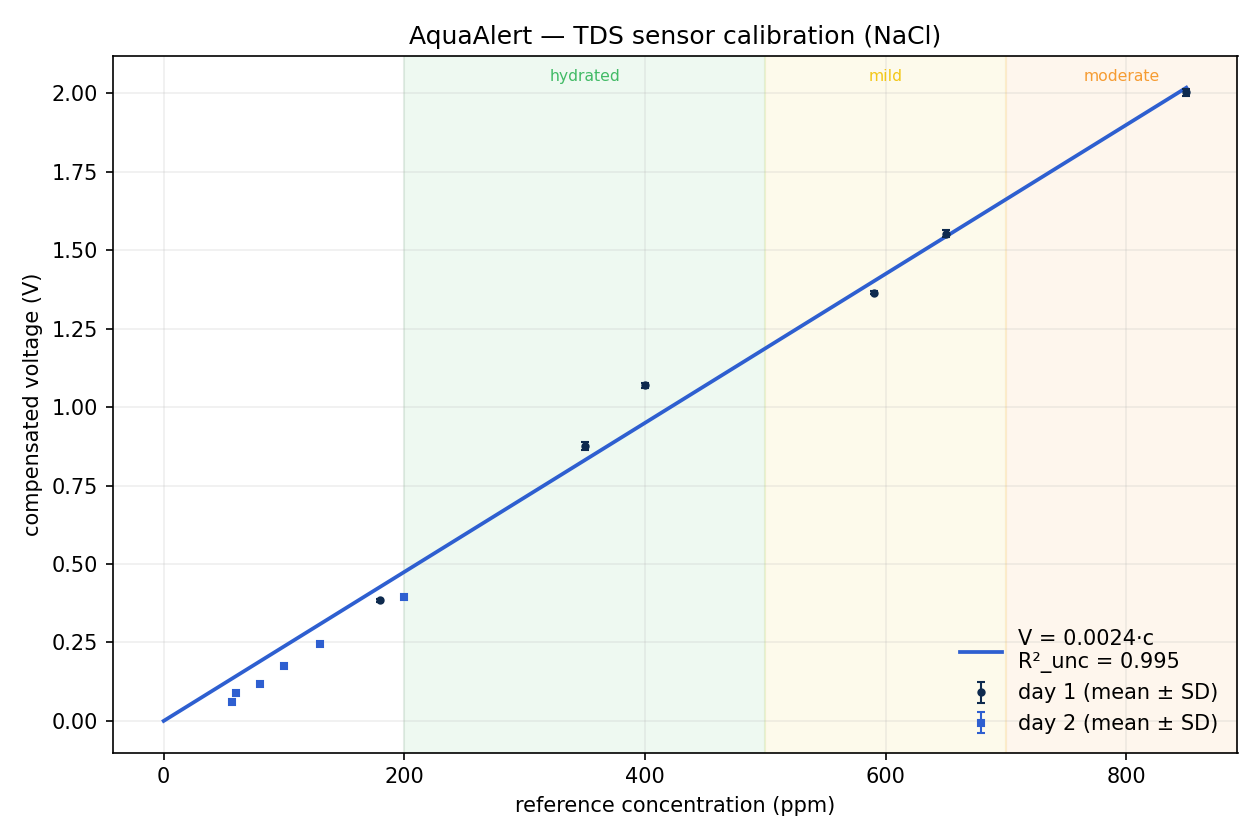
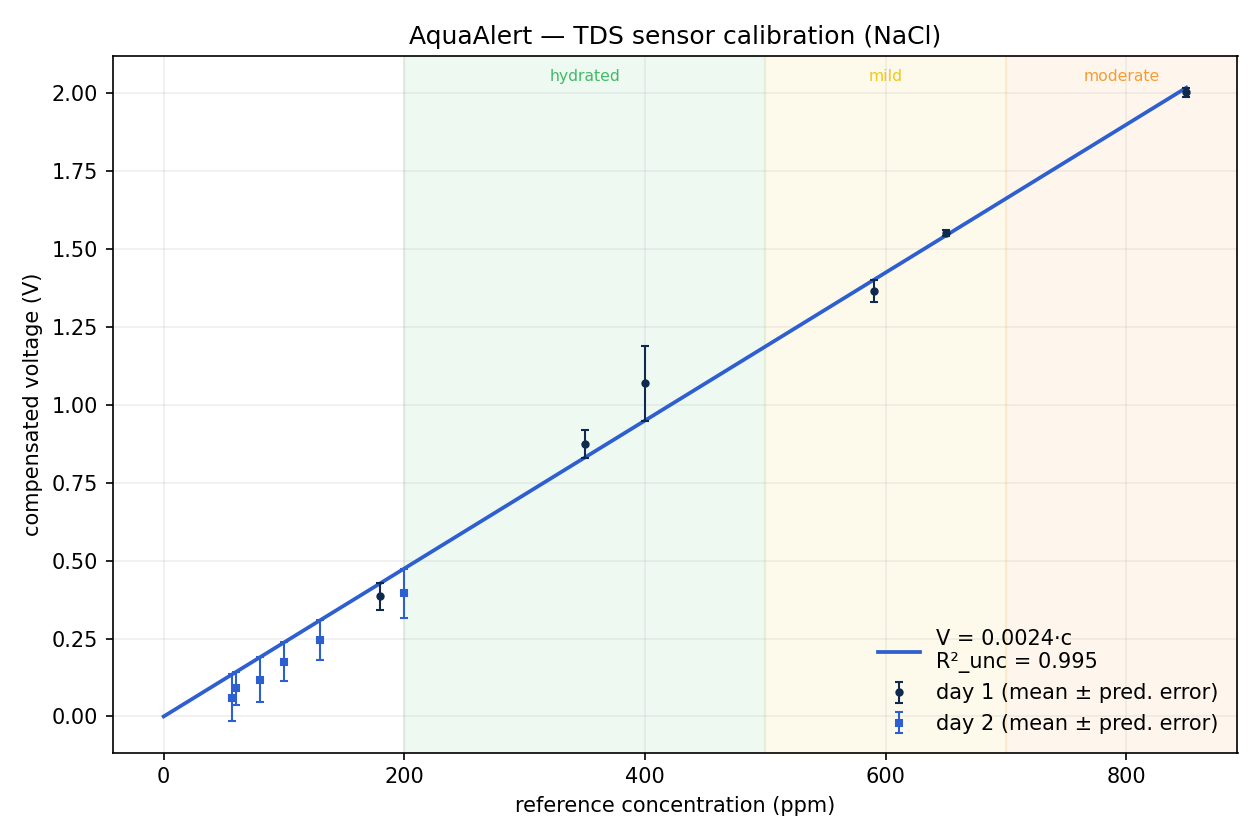
Add --error pred mode so error bars show the prediction error vs the fitted line
Replaces tiny replicate-SD bars (~6 mV, invisible on V axis) with the per-
concentration residual to V = m*c. Bars now visible: 0-15 mV where the fit
is good (650, 850 ppm) and ~120 mV at the 400 ppm outlier. Regenerated
both calibration_curve.png (3-panel) and calibration_presentation.png.

diff --git a/analysis/calibrate.py b/analysis/calibrate.py
@@ -54,7 +54,7 @@ REPLICATES_CSV = ROOT / "data" / "calibration_replicates.csv"
 MEANS_CSV = ROOT / "data" / "calibration.csv"
 DEFAULT_CSV = REPLICATES_CSV if REPLICATES_CSV.exists() else MEANS_CSV
 SIGNAL = "voltage_compensated_V"
-ERR_LABEL = {"sd": "SD", "sem": "SEM", "ci": "95% CI"}
+ERR_LABEL = {"sd": "SD", "sem": "SEM", "ci": "95% CI", "pred": "pred. error"}
 
 
 def tcrit(n: int, conf: float = 0.95) -> float:
@@ -76,8 +76,9 @@ def main() -> None:
                                  formatter_class=argparse.RawDescriptionHelpFormatter)
     ap.add_argument("--csv", type=Path, default=DEFAULT_CSV)
     ap.add_argument("--out", type=Path, default=ROOT / "docs" / "calibration_curve.png")
-    ap.add_argument("--error", choices=["sd", "sem", "ci"], default="sd",
-                    help="error bars: sd (spread), sem (SD/sqrt n), ci (95%% t-interval)")
+    ap.add_argument("--error", choices=["sd", "sem", "ci", "pred"], default="sd",
+                    help="error bars: sd (spread), sem (SD/sqrt n), ci (95%% t-interval), "
+                         "pred (|residual to the fitted line| — the prediction error)")
     ap.add_argument("--err-magnify", type=float, default=1.0,
                     help="exaggerate the curve's error bars by this factor so they "
                          "are visible (labelled on the plot); the lower panel stays 1:1")
@@ -114,6 +115,16 @@ def main() -> None:
     else:
         fit_df, excl_df = df, df.iloc[0:0]
 
+    # --- fit over the individual in-fit measurements (honest scatter) ---
+    c = fit_df[conc_col].to_numpy(float)
+    v = fit_df[SIGNAL].to_numpy(float)
+    if len(c) < 2:
+        sys.exit("Need at least two in-fit measurements to fit a line.")
+    n = len(c)
+
+    # primary slope-only slope (needed up front for the "pred" error-bar mode)
+    m0 = float(np.sum(c * v) / np.sum(c ** 2))
+
     def aggregate(d: pd.DataFrame) -> pd.DataFrame:
         """Mean / SD / n (+ chosen error bar) of the signal per concentration."""
         keys = [conc_col] + (["day"] if "day" in d.columns else [])
@@ -125,24 +136,18 @@ def main() -> None:
             a["err"] = a["std"]
         elif args.error == "sem":
             a["err"] = sem
-        else:  # ci
+        elif args.error == "ci":
             a["err"] = a["n"].apply(lambda nn: tcrit(int(nn))) * sem
+        else:  # pred: |observed mean V - fitted V|, per concentration
+            a["err"] = (a["mean"] - m0 * a[conc_col]).abs()
         return a.sort_values(conc_col)
 
-    # --- fit over the individual in-fit measurements (honest scatter) ---
-    c = fit_df[conc_col].to_numpy(float)
-    v = fit_df[SIGNAL].to_numpy(float)
-    if len(c) < 2:
-        sys.exit("Need at least two in-fit measurements to fit a line.")
-
-    n = len(c)
     fit_agg = aggregate(fit_df)
     cv = (fit_agg["std"] / fit_agg["mean"]).replace([np.inf, -np.inf], np.nan) * 100
     elabel = ERR_LABEL[args.error]
 
     # --- PRIMARY FIT: slope-only through the origin (V = m·c) ---
-    # Pairs with the firmware's auto-tare so 0 ppm reads 0 in the field.
-    m0 = float(np.sum(c * v) / np.sum(c ** 2))                # closed-form LSQ thru (0,0)
+    # m0 already computed above (needed by aggregate); finish the stats here.
     ss_res0 = float(np.sum((v - m0 * c) ** 2))
     r2_0 = 1.0 - ss_res0 / float(np.sum(v ** 2))              # uncentered R²
     s_yx0 = float(np.sqrt(ss_res0 / (n - 1)))                 # 1 param -> df = n-1
